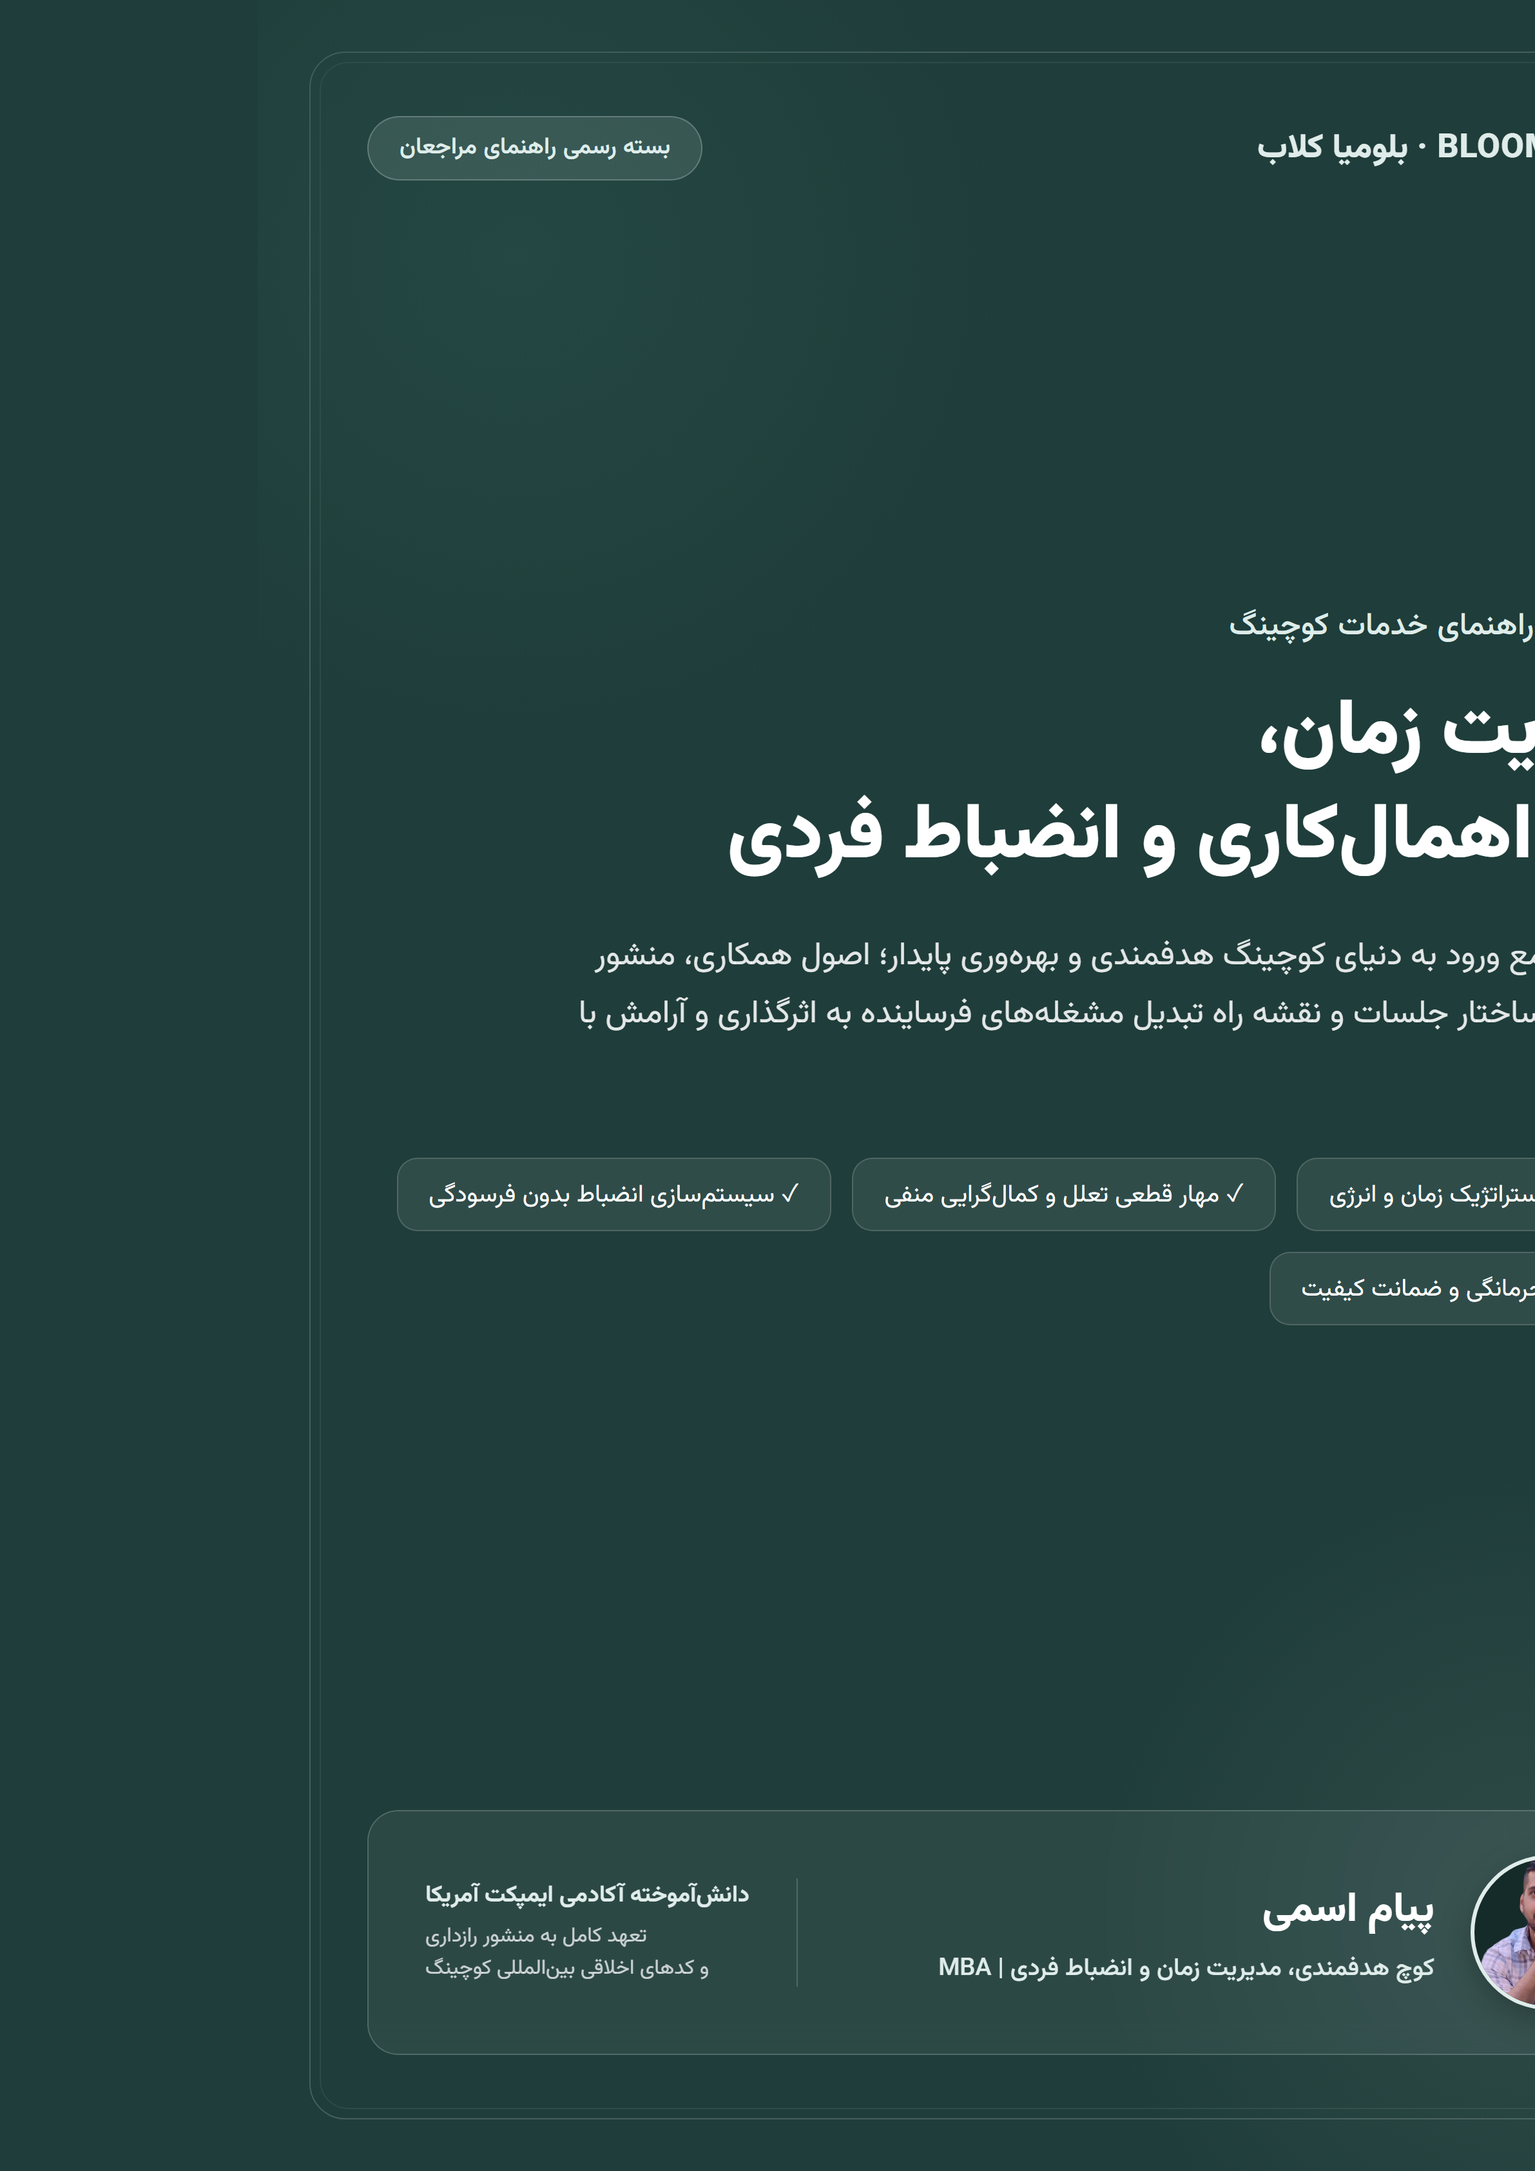
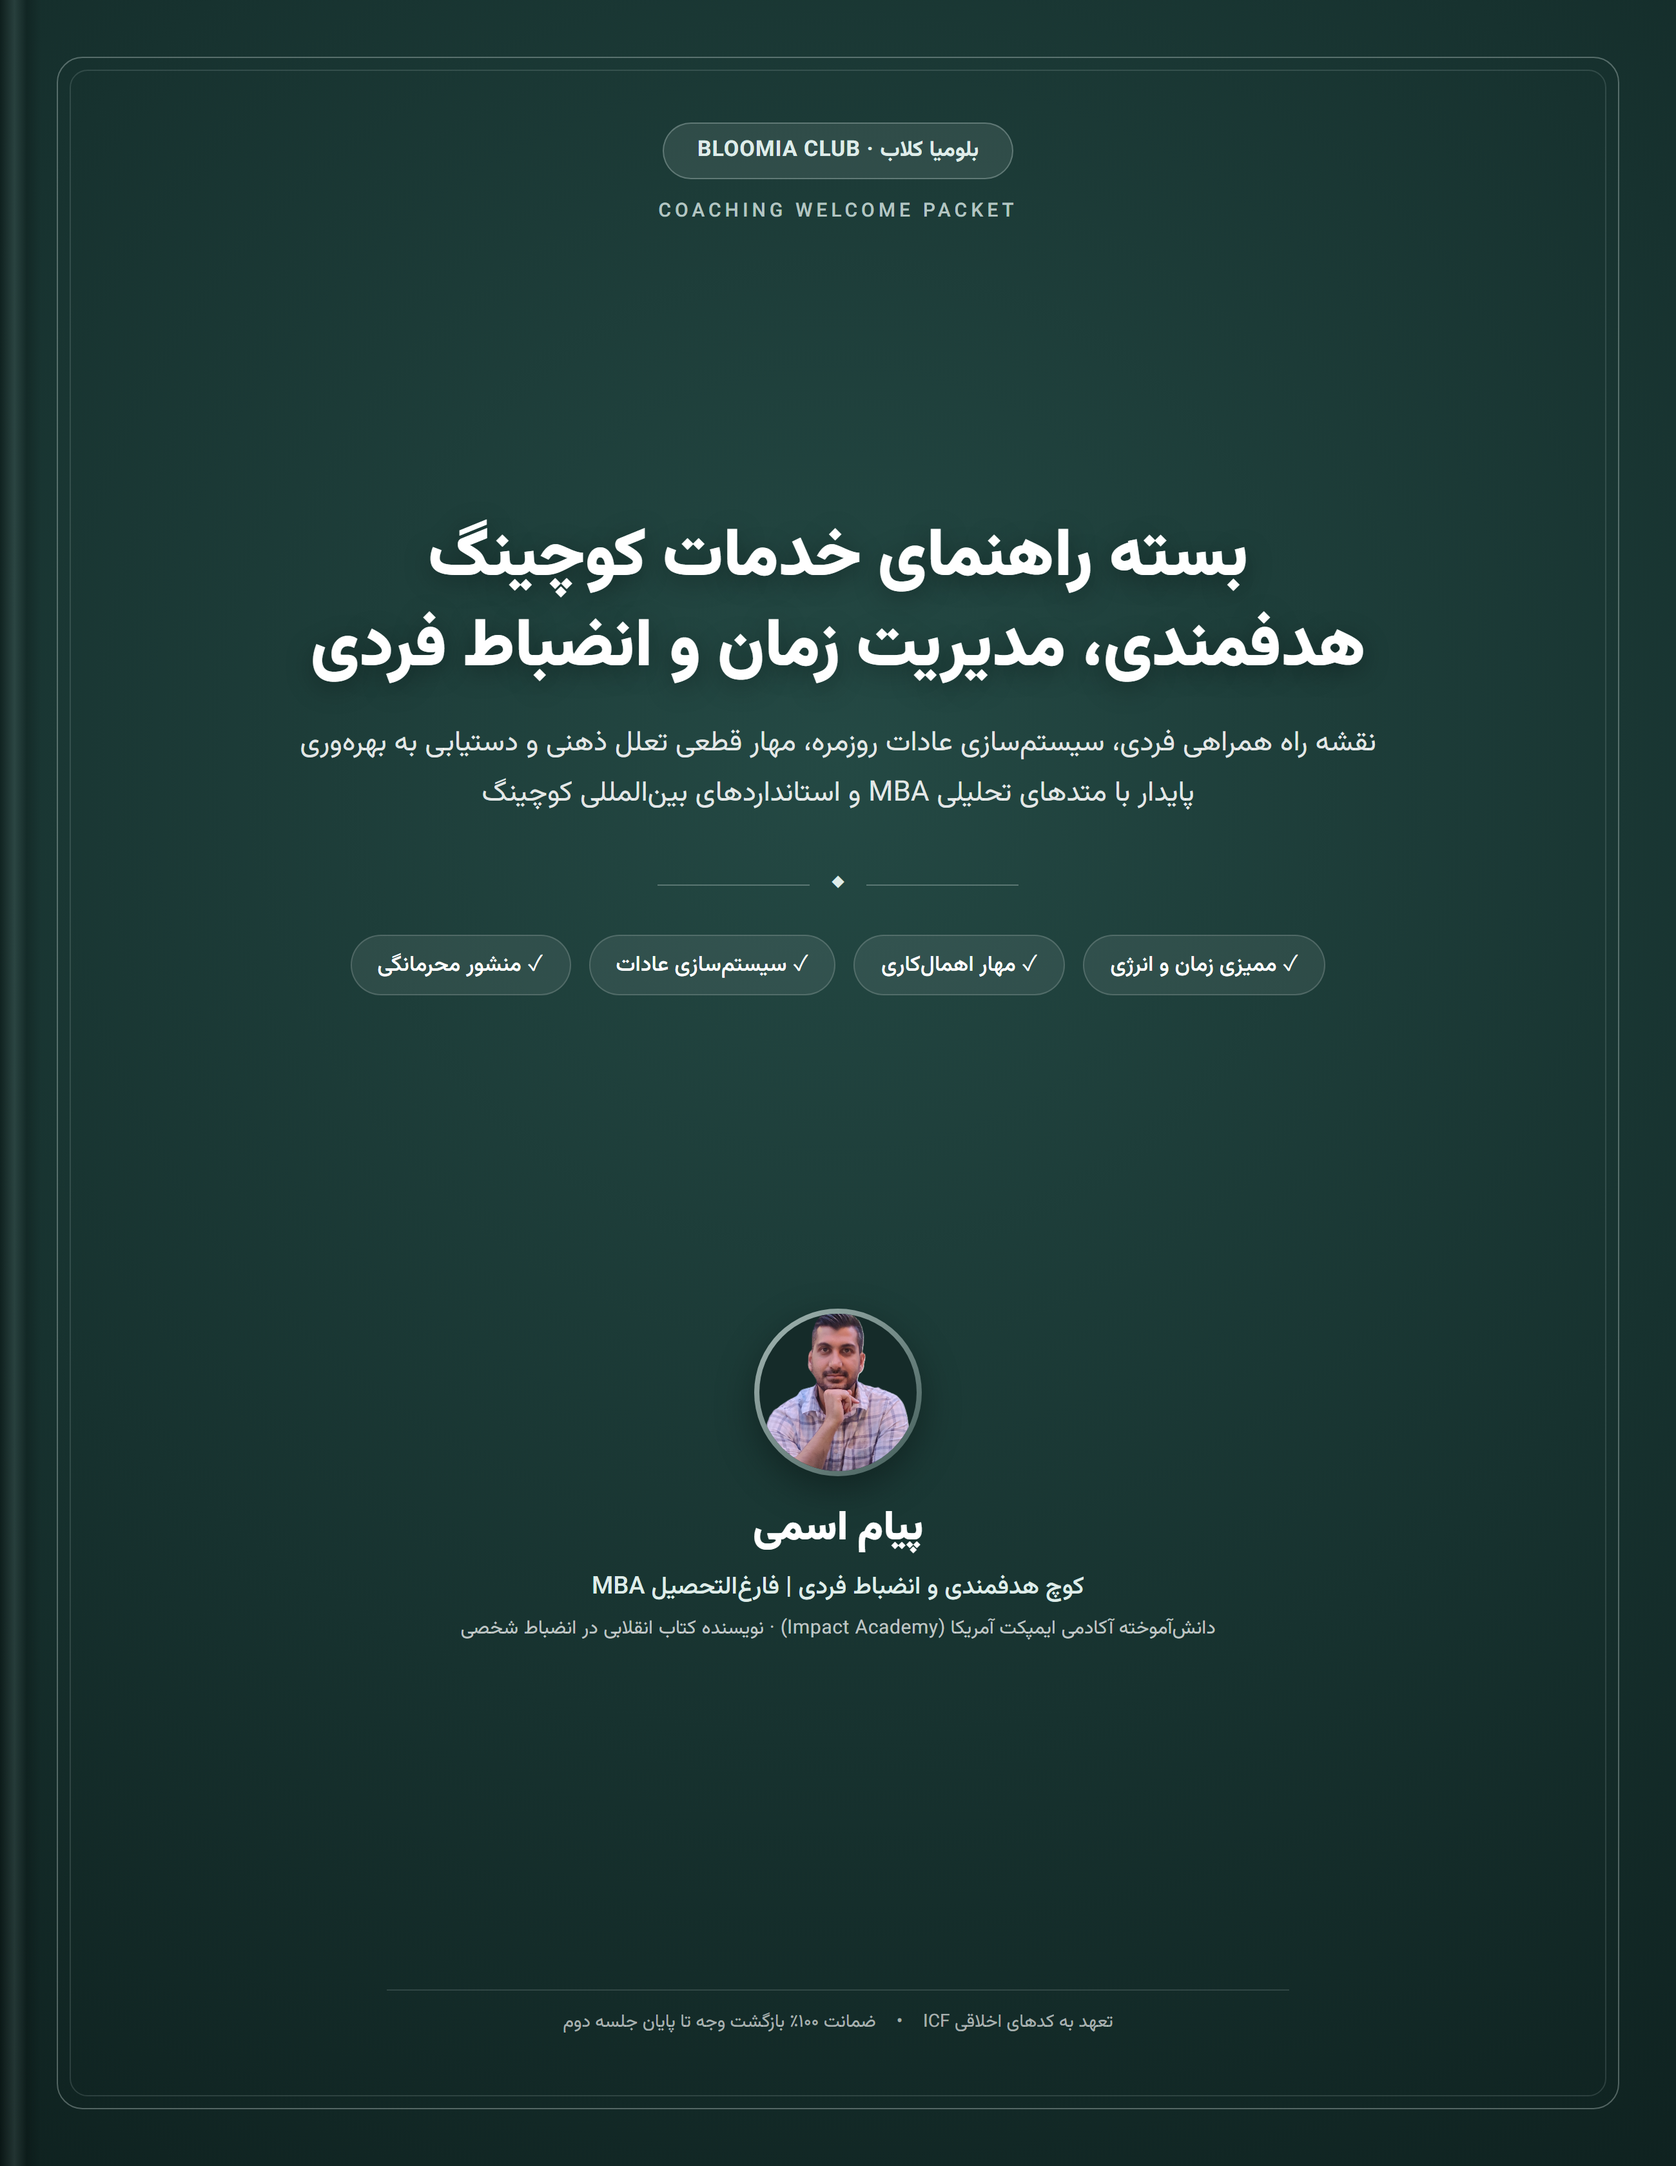
fix(coach): calibrate Payam Esmi book cover dimensions and typography for 3D mockup frame

diff --git a/src/lib/coaches.ts b/src/lib/coaches.ts
@@ -2060,7 +2060,7 @@ export const fallbackCoaches: CoachProfile[] = [
       title: 'بسته راهنمای خدمات کوچینگ با پیام اسمی',
       subtitle: 'راهنمای جامع ورود به دنیای کوچینگ هدفمندی و بهرهوری پایدار؛ اصول همکاری، منشور محرمانگی، ساختار جلسات و نقشه راه تبدیل مشغلههای فرساینده به اثرگذاری و آرامش با پیام اسمی.',
       fileUrl: 'https://cdn.sanity.io/files/7yjhdw88/production/5f6c31f24b761691b4b59bf5ad8eeb7eb4b11a80.pdf',
-      coverImageUrl: 'https://cdn.sanity.io/images/7yjhdw88/production/84362b4eec43cff1952617c524b7a3e0ab5a4219-2382x3368.png',
+      coverImageUrl: 'https://cdn.sanity.io/images/7yjhdw88/production/c8fd0eef4fe3f43638d25e2c78268485c797afb8-2600x3360.png',
       buttonText: 'دریافت بسته راهنما (PDF)',
       features: [
         'آشنایی با متدولوژی کوچینگ هدفمندی، مدیریت زمان و انضباط فردی',

diff --git a/src/components/sections/coach-v4/SoleaSupport.tsx b/src/components/sections/coach-v4/SoleaSupport.tsx
@@ -73,7 +73,7 @@ export const SoleaSupport: React.FC<SoleaSupportProps> = ({ coach }) => {
   const packetCover =
     coach?.welcomePacket?.coverImageUrl ||
     (isPayam
-      ? 'https://cdn.sanity.io/images/7yjhdw88/production/84362b4eec43cff1952617c524b7a3e0ab5a4219-2382x3368.png'
+      ? 'https://cdn.sanity.io/images/7yjhdw88/production/c8fd0eef4fe3f43638d25e2c78268485c797afb8-2600x3360.png'
       : isMahya
         ? '/images/solea/mahya_welcome_packet_cover.png'
         : isFatemeh
